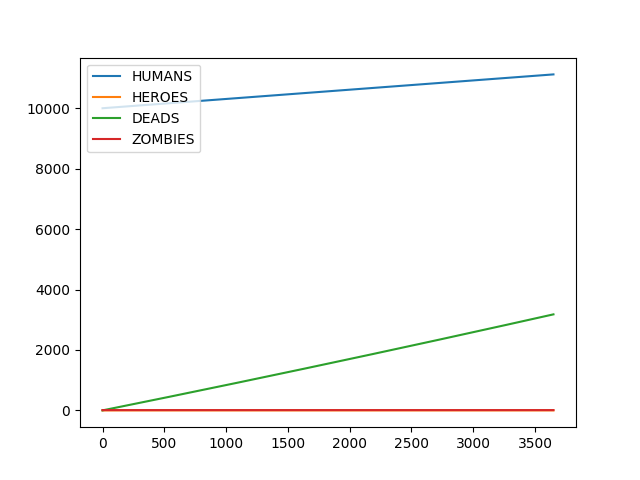
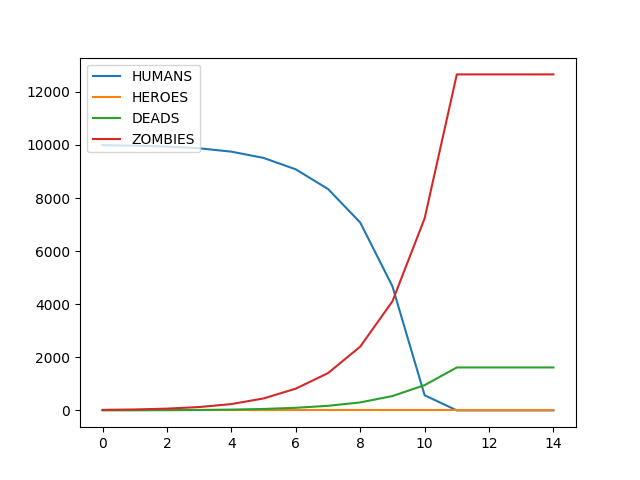
finished simulate_with_zombies_no_heroes

diff --git a/simulation.py b/simulation.py
@@ -21,8 +21,9 @@ DAY = 0
 def main():
     random.seed(1)
     duration = 3650
+    duration = 30
     simulate_normal(duration)
-    simulate_with_zombies_no_heroes(duration)
+    simulate_with_zombies_no_heroes(15)
 
 
 def simulate_normal(iterations: int):
@@ -52,9 +53,9 @@ def population_growth():
         https://www.deutschland123.de/bramsche-umz%C3%BCge-zu-und-fortz%C3%BCge -> (1779 - 1815) / a
     """
     growth = (260 + 1779 - 1815) / 365
-    SPECIES["DEADS"] += .0301 * (SPECIES["HUMANS"] + SPECIES["HEROES"]) / 365
-    SPECIES["HUMANS"] += growth / 2 * bool(SPECIES["HUMANS"])
-    SPECIES["HEROES"] += growth / 2 * bool(SPECIES["HEROES"])
+    increase_species("DEADS",  .0301 * (SPECIES["HUMANS"] + SPECIES["HEROES"]) / 365)
+    increase_species("HUMANS", growth / 2 * bool(SPECIES["HUMANS"]))
+    increase_species("HEROES", growth / 2 * bool(SPECIES["HEROES"]))
 
 
 def simulate_with_zombies_no_heroes(iterations: int):
@@ -78,7 +79,7 @@ def simulate_with_zombies_no_heroes(iterations: int):
 
         for i in change:
             change[i].append(SPECIES[i])
-    print(change["ZOMBIES"][-1])
+
     plot(change, "zombified_no_heroes.png")
 
 
@@ -86,35 +87,44 @@ def human_kills_zombie():
     """
         The change of zombies killed by humans.
         One human has the skill to kill one of ten zombies if he has no choice.
-        So if there were ten zombies and two humans, they would kill one only still because one of them can fly.
+        So if there were ten zombies and two humans, they would kill one only still because one of them can flee.
         If there were 20 zombies and two humans, they would kill two of them.
         And if there are less then ten, no zombie is gonna be killed.
         In short, the zombies reduce by a tenth if they are less than the tenfold of the humans, else by the number of humans.
 
-        In the beginning they hesitate with killing because of moral issues.
+        In the beginning humans hesitate with killing because of moral issues, but the growing crowd of zombies changes their mind.
     """
     current_population = SPECIES["HUMANS"] + SPECIES["HEROES"]
     hesitation_factor = sigmoid(SPECIES["ZOMBIES"], current_population / 10)
     if int(SPECIES["ZOMBIES"]) < 10 * int(current_population):
-        SPECIES["ZOMBIES"] -= hesitation_factor * (SPECIES["ZOMBIES"] // 10)
+        reduce_species("ZOMBIES", hesitation_factor * (SPECIES["ZOMBIES"] // 10))
     else:
-        SPECIES["ZOMBIES"] -= hesitation_factor * (SPECIES["HUMANS"])
+        reduce_species("ZOMBIES", hesitation_factor * (SPECIES["HUMANS"]))
 
 
 def zombie_transforms_human():
     """
         The change of humans turned into zombies.
         This gets higher the more zombies exist.
+        A zombie selects one human a day as meal.
+        Ten percent of the victims are gonna be eaten completely, the other part morphs.
     """
-    pass
+    victims = int(SPECIES["ZOMBIES"]) * bool(SPECIES["HUMANS"])
+    reduce_species("HUMANS", victims if victims < SPECIES["HUMANS"] else SPECIES["HUMANS"])
+
+    increase_species("DEADS",   victims * .1)
+    increase_species("ZOMBIES", victims * .9)
 
 
 def human_kills_human():
     """
         The change of humans killed by humans.
-        This gets higher everyday because of the stress that changes the humans' minds.
+        This gets higher everyday because of the stress that changes the humans' minds, the survival instinct, the fear of dying.
+        In this small city, let's say that on human is gonna be killed by another a day, in maximum.
     """
-    pass
+    global DAY
+    stress = sigmoid(DAY, 100)  # after 100 days 1 human dies a day
+    reduce_species("HUMANS", stress) 
 
 
 def sigmoid(x: float, where_to_be_one: float) -> float:
@@ -123,7 +133,17 @@ def sigmoid(x: float, where_to_be_one: float) -> float:
         The normal function with e^-x, so factor 1 for x is close to 1 at x=6 -> factor=6/(x where it should be close 1)
     """
     from math import exp
+    if where_to_be_one == 0:
+        return 1
     return 1 / (1 + exp(-(6 / (where_to_be_one / 2)) * (x - (where_to_be_one / 2))))
+
+
+def reduce_species(species: str, change: float):
+    SPECIES[species] -= change if change < SPECIES[species] else SPECIES[species]
+
+
+def increase_species(species: str, change: float):
+    reduce_species(species, -change)
 
 
 def plot(species: dict, file: str):
